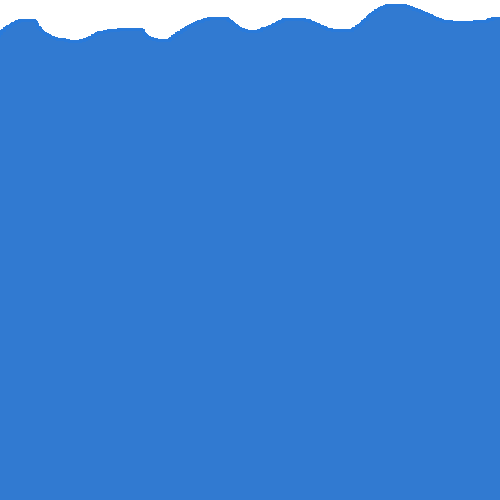
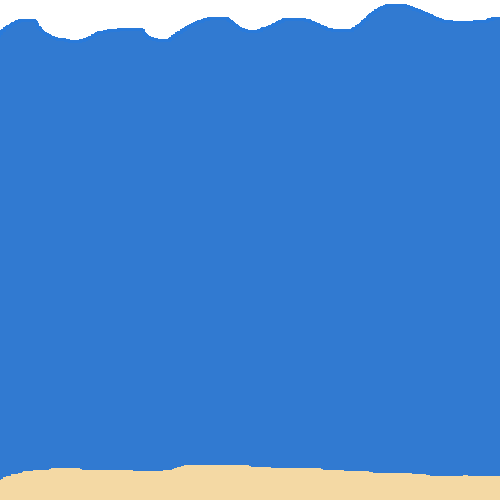
a

Changed region(s): [[0.0, 0.93, 1.0, 1.0]]

diff --git a/fishs/main.js b/fishs/main.js
@@ -5,6 +5,8 @@ tey=500;
 
 imgfond=new Image();
 imgfond.src="images/eau.png"
+imgfond2=new Image();
+imgfond2.src="images/eau_2.png"
 imgf11=new Image();
 imgf11.src="images/f_2_1.png"
 imgf21=new Image();
@@ -26,8 +28,8 @@ class Poisson{
     constructor(){
         this.px=Math.random()*tex/2;
         this.py=Math.random()*tex/2;
-        this.tx=50;
-        this.ty=50;
+        this.tx=35;
+        this.ty=35;
         this.tc=100;
         this.an_droit=[imgf11];
         this.an_gauche=[imgf21];
@@ -71,9 +73,9 @@ class Poisson{
                 this.an=0;
             }
             if( this.px<0) this.px=0;
-            if( this.px>tex) this.px=tex;
+            if( this.px>tex-this.tx) this.px=tex-this.tx;
             if( this.py<50) this.py=50;
-            if( this.py>tey) this.py=tey;
+            if( this.py>tey-this.ty-30) this.py=tey-this.ty-30;
             if( this.tc<50) this.tc=50;
             if( this.tc>150) this.tc=150;
             if( dt.getTime()-this.dan >= this.tanim){
@@ -88,19 +90,20 @@ class Poisson{
 
 
 
-function Aff(fish,dt){
+function Aff(fishs,dt){
     ctx.drawImage( imgfond , 0 , 0 );
-    ctx.drawImage( fish.img_actu , fish.px , fish.py , fish.tx , fish.ty );
+    for(x=0;x<fishs.length;x++) ctx.drawImage( fishs[x].img_actu , fishs[x].px , fishs[x].py , fishs[x].tx , fishs[x].ty );
+    ctx.drawImage( imgfond2 , 0 , 0 );
     //ctx.fillText(fps, 15, 15);
 }
 
 function Main(){
-    fish=new Poisson();
+    fishs=[new Poisson(),new Poisson(),new Poisson(),new Poisson()];
     encour=true;
     function mainboucle(){
         var dt = new Date();
-        Aff(fish,dt);
-        fish.update(dt);
+        Aff(fishs,dt);
+        for(x=0;x<fishs.length;x++) fishs[x].update(dt);
         if(encour) window.requestAnimationFrame(mainboucle);
     }
     window.requestAnimationFrame(mainboucle);
